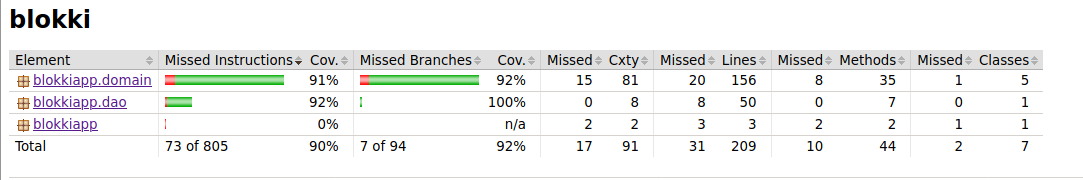
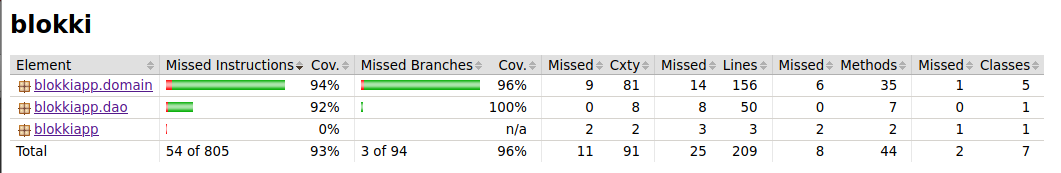
added more tests

Changed region(s): [[0.0, 0.2601, 0.9953, 0.9249], [0.0, 0.9827, 1.0, 1.0], [0.0, 0.0289, 0.0933, 0.2023]]

diff --git a/blokki/src/test/java/blokkiapp/domain/GameLogicTest.java b/blokki/src/test/java/blokkiapp/domain/GameLogicTest.java
@@ -8,6 +8,7 @@ package blokkiapp.domain;
 import org.junit.Before;
 import org.junit.Test;
 import static junit.framework.Assert.assertEquals;
+import static org.junit.Assert.assertTrue;
 
 /**
  *
@@ -34,6 +35,31 @@ public class GameLogicTest {
             }
         }
         assertEquals(2, gridvalue);
+    }
+    
+    @Test
+    public void gameCanBeWon() {
+        logic.newGame(4);
+        Tile[][] grid = logic.getBoard().getGrid();
+        grid[0][3].setValue(1024);
+        grid[1][3].setValue(1024);
+        logic.moveTiles("down");
+        assertTrue(logic.isGameWon());
+    }
+    
+    @Test
+    public void gameIsLostWhenBoardIsFull() {
+        logic.newGame(4);
+        int gridvalue = 1;
+        Tile[][] grid = logic.getBoard().getGrid();
+        for (int i = 0; i < logic.getBoard().boardSize; i++) { 
+            for (int j = 0; j < logic.getBoard().boardSize; j++) { 
+                grid[i][j].setValue(gridvalue);
+                gridvalue++;
+            }
+        }
+        logic.moveTiles("up");
+        assertTrue(logic.isGameOver());
     }
     
     @Test
